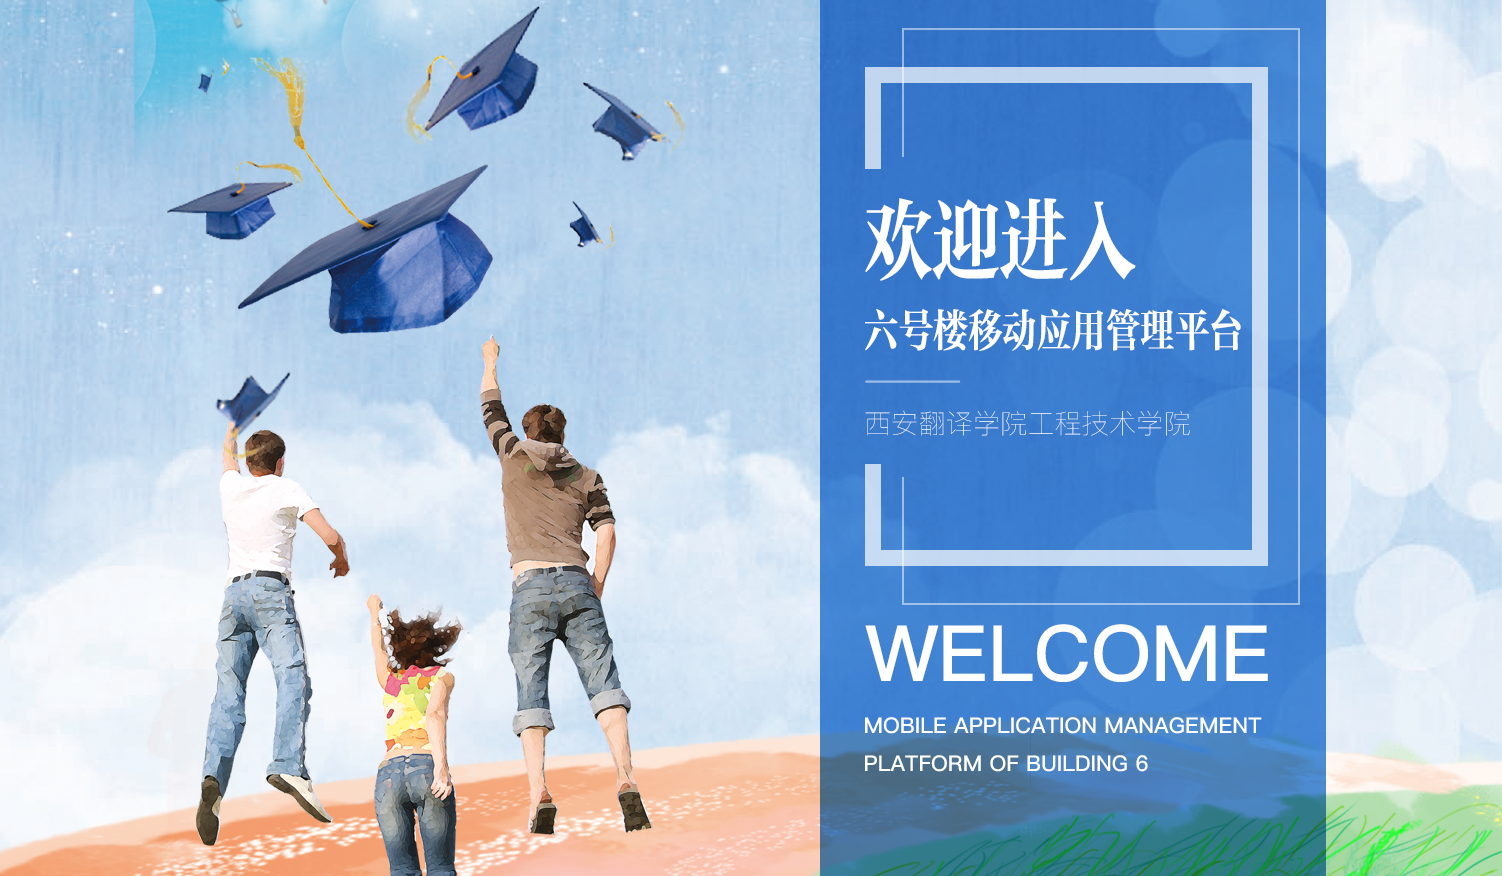
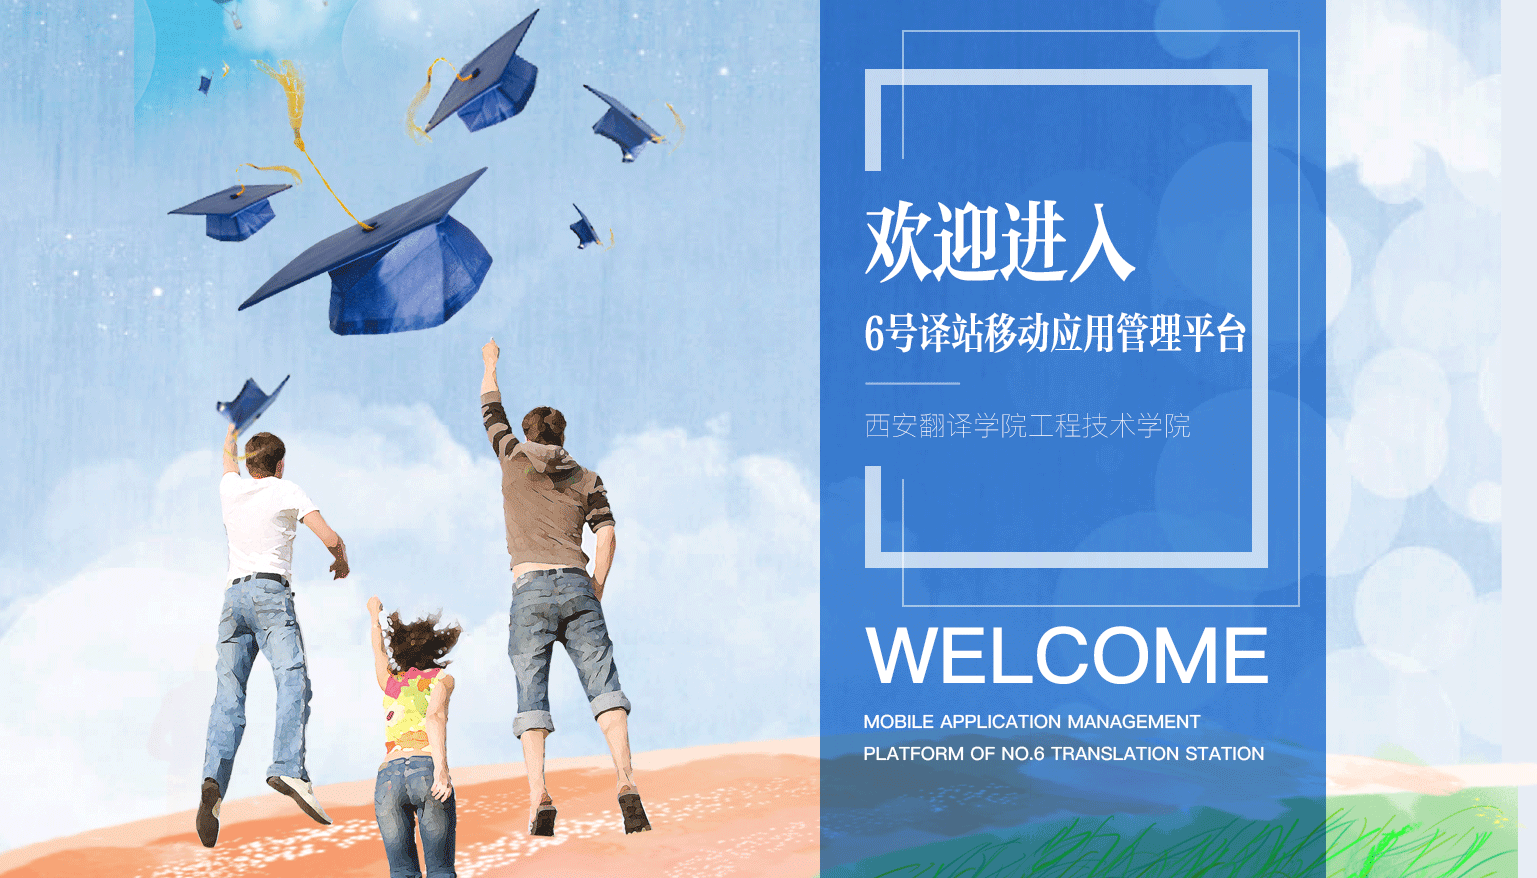
更名

diff --git a/static/Ueditor/ueditor.all.js b/static/Ueditor/ueditor.all.js
@@ -7925,13 +7925,13 @@ var fillCharReg = new RegExp(domUtils.fillChar, 'g');
          */
         getContentLength: function (ingoneHtml, tagNames) {
             var count = this.getContent(false,false,true).length;
-            if (ingoneHtml) {
-                tagNames = (tagNames || []).concat([ 'hr', 'img', 'iframe']);
-                count = this.getContentTxt().replace(/[\t\r\n]+/g, '').length;
-                for (var i = 0, ci; ci = tagNames[i++];) {
-                    count += this.document.getElementsByTagName(ci).length;
-                }
-            }
+//          if (ingoneHtml) {
+//              tagNames = (tagNames || []).concat([ 'hr', 'img', 'iframe']);
+//              count = this.getContentTxt().replace(/[\t\r\n]+/g, '').length;
+//              for (var i = 0, ci; ci = tagNames[i++];) {
+//                  count += this.document.getElementsByTagName(ci).length;
+//              }
+//          }
             return count;
         },
 
@@ -28830,7 +28830,7 @@ UE.ui = baidu.editor.ui = {};
             function setCount(editor,ui) {
                 editor.setOpt({
                     wordCount:true,
-                    maximumWords:10000,
+                    maximumWords:100000,
                     wordCountMsg:editor.options.wordCountMsg || editor.getLang("wordCountMsg"),
                     wordOverFlowMsg:editor.options.wordOverFlowMsg || editor.getLang("wordOverFlowMsg")
                 });

diff --git a/static/Ueditor/ueditor.config.js b/static/Ueditor/ueditor.config.js
@@ -33,8 +33,10 @@
         // 服务器统一请求接口路径
 
 //      , serverUrl: "https://education.ityyedu.com/educationSystem/ueditor/exec"//测试服务器
-        , serverUrl: "http://192.168.1.252:8083/educationSystem/ueditor/exec"//kun
+//      , serverUrl: "http://192.168.1.252:8083/educationSystem/ueditor/exec"//kun
 //      , serverUrl: "http://192.168.1.253:8080/educationSystem/ueditor/exec"//bo
+//		, serverUrl: "https://education.szyd.xafy.edu.cn/educationSystem/ueditor/exec"//kun
+		, serverUrl: "https://szyd.xafy.edu.cn/educationSystem/ueditor/exec"//kun
 
 
 

diff --git a/src/components/login/Login.vue b/src/components/login/Login.vue
@@ -3,7 +3,7 @@
         <div class="login_box">
         	<span class="sjx"></span>
         	<img class="loginbj2" src="static/images/login/bj2.png" alt="" />
-        	<span class="auth">山西硬汉网络科技科技有限公司 版权所有</span>
+        	<!--<span class="auth">山西硬汉网络科技科技有限公司 版权所有</span>-->
             <el-form ref="form"  class="login_form" :model="loginForm">
             	<h1 class="title">登录账户</h1>
             	<p v-if="loginError" class="loginError"><span class="el-icon-warning"></span>{{errorMessage}}</p>

diff --git a/src/components/common/action/contactIndexCommon.vue b/src/components/common/action/contactIndexCommon.vue
@@ -197,7 +197,7 @@ export default {
   },
   data() {
     return {
-      action: this.apiRoot + "/test/uploadPic",
+      action: this.apiRoot + "test/uploadPic",
       loading:false,
       topicnum: ["A", "B", "C", "D"],
       labelWidth: "2.07rem",

diff --git a/src/assets/style/common/list.css b/src/assets/style/common/list.css
@@ -146,6 +146,7 @@
 }
 .el-main .list .el-table__body-wrapper td .cell button.auth{
     color:#e17f00;
+    text-decoration: underline;
 }
 .el-main .list .el-table__body-wrapper td .cell button.repeat{
 	color:#2380FF;

diff --git a/src/assets/style/index/index.css b/src/assets/style/index/index.css
@@ -15,12 +15,12 @@ div.header{
 div.header .logo{
 	float:left;
 	height:0.7rem;
-	width:7rem;
+	/*width:7rem;*/
 }
 div.header .logo img{
 	display: block;
 	height:0.7rem;
-	width:7rem;
+	/*width:7rem;*/
 }
 
 

diff --git a/src/components/minProgramManagement/payManagement/payManagementList.vue b/src/components/minProgramManagement/payManagement/payManagementList.vue
@@ -444,7 +444,7 @@ export default {
       	manuscript:false,
       	safetyReport:false,
       	printSampleIn:false,
-      	actionWidth:100,
+      	actionWidth:150,
 //    	sort:'sampleNum',
       },
 

diff --git a/src/components/authorityManagement/resources/ResourcesList.vue b/src/components/authorityManagement/resources/ResourcesList.vue
@@ -304,7 +304,7 @@ export default {
       	auth:false,
       	show:true,
       	noview:true,
-      	actionWidth:100,
+      	actionWidth:150,
       }
     }
   }

diff --git a/src/components/authorityManagement/role/RoleList.vue b/src/components/authorityManagement/role/RoleList.vue
@@ -307,7 +307,7 @@ export default {
       	auth:true,
       	show:true,
       	noview:true,
-      	actionWidth:100,
+      	actionWidth:150,
       }
     }
   }

diff --git a/src/components/authorityManagement/user/UserList.vue b/src/components/authorityManagement/user/UserList.vue
@@ -310,7 +310,7 @@ export default {
       	auth:true,
       	show:true,
       	noview:true,
-      	actionWidth:100,
+      	actionWidth:150,
       }
     }
   }
